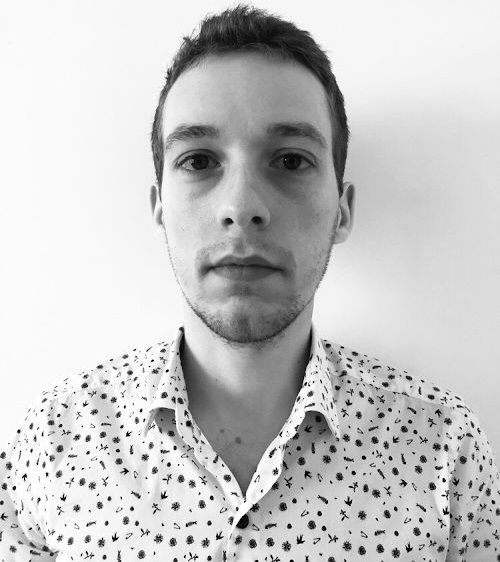
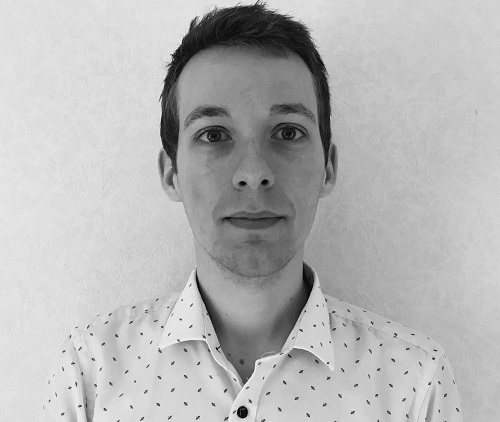
Mise à jour CV et photo

diff --git a/css/agency.min.css b/css/agency.min.css
@@ -1,1 +1,1 @@
-body{overflow-x:hidden;font-family:'Roboto Slab','Helvetica Neue',Helvetica,Arial,sans-serif}p{line-height:1.75}a{color:#6F429A}a:hover{color:#6F429A}.text-primary{color:#6F429A!important}h1,h2,h3,h4,h5,h6{font-weight:700;font-family:'Montserrat','Helvetica Neue',Helvetica,Arial,sans-serif}section{padding:100px 0}section h2.section-heading{font-size:40px;margin-top:0;margin-bottom:15px}section h3.section-subheading{font-size:16px;font-weight:400;font-style:italic;margin-bottom:75px;text-transform:none;font-family:'Droid Serif','Helvetica Neue',Helvetica,Arial,sans-serif}@media (min-width:768px){section{padding:150px 0}}.btn{font-family:'Montserrat','Helvetica Neue',Helvetica,Arial,sans-serif;font-weight:700}.btn-xl{font-size:18px;padding:20px 40px}.btn-primary{background-color:white;border-color:#6F429A;color:#6F429A}.btn-primary:active,.btn-primary:focus,.btn-primary:hover{background-color:white!important;border-color:#6F429A!important;color:#6F429A}.btn-primary:active,.btn-primary:focus{box-shadow:0 0 0 .2rem rgba(255,255,255,.5)!important}::-moz-selection{background:#6F429A;text-shadow:none}::selection{background:#6F429A;text-shadow:none}img::selection{background:transparent}img::-moz-selection{background:transparent}#mainNav{background-color:white;box-shadow:0 1px 5px rgba(0,0,0,.1)}#mainNav .navbar-toggler{font-size:12px;right:0;padding:13px;text-transform:uppercase;color:#6F429A;border:1px solid #6F429A;outline:none;background-color:white;font-family:'Montserrat','Helvetica Neue',Helvetica,Arial,sans-serif}#mainNav .navbar-brand{color:#6F429A;font-family:'Kaushan Script','Helvetica Neue',Helvetica,Arial,cursive}#mainNav .navbar-brand.active,#mainNav .navbar-brand:active,#mainNav .navbar-brand:focus,#mainNav .navbar-brand:hover{color:#6F429A}#mainNav .navbar-nav .nav-item .nav-link{font-size:90%;font-weight:400;padding:.75em 0;letter-spacing:1px;color:#212529;font-family:'Montserrat','Helvetica Neue',Helvetica,Arial,sans-serif}#mainNav .navbar-nav .nav-item .nav-link.active{color:#6F429A;font-weight:700}#mainNav .navbar-nav .nav-item .nav-link:hover{color:#6F429A;opacity:.9}@media (min-width:992px){#mainNav{padding-top:25px;padding-bottom:25px;-webkit-transition:padding-top 0.3s,padding-bottom 0.3s;-moz-transition:padding-top 0.3s,padding-bottom 0.3s;transition:padding-top 0.3s,padding-bottom 0.3s;border:none;background-color:white}#mainNav .navbar-brand{font-size:1.75em;-webkit-transition:all 0.3s;-moz-transition:all 0.3s;transition:all 0.3s}#mainNav .navbar-nav .nav-item .nav-link{padding:1.1em 1em!important}#mainNav.navbar-shrink{padding-top:0;padding-bottom:0;background-color:white}#mainNav.navbar-shrink .navbar-brand{font-size:1.25em;padding:12px 0}}header.masthead{text-align:center;color:white;background-image:linear-gradient(to bottom right,#6F429A,#7c56cc);background-repeat:no-repeat;background-attachment:scroll;background-position:center center;-webkit-background-size:cover;-moz-background-size:cover;-o-background-size:cover;background-size:cover}header.masthead .intro-text{padding-top:150px;padding-bottom:100px}header.masthead .intro-text .intro-lead-in{font-size:22px;font-style:italic;line-height:22px;margin-bottom:25px;font-family:'Droid Serif','Helvetica Neue',Helvetica,Arial,sans-serif}header.masthead .intro-text .intro-heading{font-size:50px;font-weight:700;line-height:50px;margin-bottom:25px;font-family:'Montserrat','Helvetica Neue',Helvetica,Arial,sans-serif}@media (min-width:768px){header.masthead .intro-text{padding-top:300px;padding-bottom:200px}header.masthead .intro-text .intro-lead-in{font-size:40px;font-style:italic;line-height:40px;margin-bottom:25px;font-family:'Droid Serif','Helvetica Neue',Helvetica,Arial,sans-serif}header.masthead .intro-text .intro-heading{font-size:75px;font-weight:700;line-height:75px;margin-bottom:50px;font-family:'Montserrat','Helvetica Neue',Helvetica,Arial,sans-serif}}.service-heading{margin:15px 0;text-transform:none}#portfolio .portfolio-item{right:0;margin:0 0 15px}#portfolio .portfolio-item .portfolio-link{position:relative;display:block;max-width:400px;margin:0 auto;cursor:pointer}#portfolio .portfolio-item .portfolio-link .portfolio-hover{position:absolute;width:100%;height:100%;-webkit-transition:all ease 0.5s;-moz-transition:all ease 0.5s;transition:all ease 0.5s;opacity:0;background:rgba(111,66,148,1)}#portfolio .portfolio-item .portfolio-link .portfolio-hover:hover{opacity:1}#portfolio .portfolio-item .portfolio-link .portfolio-hover .portfolio-hover-content{font-size:20px;position:absolute;top:50%;width:100%;height:20px;margin-top:-12px;text-align:center;color:white}#portfolio .portfolio-item .portfolio-link .portfolio-hover .portfolio-hover-content i{margin-top:-12px}#portfolio .portfolio-item .portfolio-link .portfolio-hover .portfolio-hover-content h3,#portfolio .portfolio-item .portfolio-link .portfolio-hover .portfolio-hover-content h4{margin:0}#portfolio .portfolio-item .portfolio-caption{max-width:400px;margin:0 auto;padding:25px;text-align:center;background-color:#fff}#portfolio .portfolio-item .portfolio-caption h4{margin:0;text-transform:none}#portfolio .portfolio-item .portfolio-caption p{font-size:16px;font-style:italic;margin:0;font-family:'Droid Serif','Helvetica Neue',Helvetica,Arial,sans-serif}#portfolio *{z-index:2}@media (min-width:767px){#portfolio .portfolio-item{margin:0 0 30px}}.portfolio-modal{padding-right:0px!important}.portfolio-modal .modal-dialog{margin:1rem;max-width:100vw}.portfolio-modal .modal-content{padding:100px 0;text-align:center}.portfolio-modal .modal-content h2{font-size:3em;margin-bottom:15px}.portfolio-modal .modal-content p{margin-bottom:30px}.portfolio-modal .modal-content p.item-intro{font-size:16px;font-style:italic;margin:20px 0 30px;font-family:'Droid Serif','Helvetica Neue',Helvetica,Arial,sans-serif}.portfolio-modal .modal-content ul.list-inline{margin-top:0;margin-bottom:30px}.portfolio-modal .modal-content img{margin-bottom:30px}.portfolio-modal .modal-content button{cursor:pointer}.portfolio-modal .close-modal{position:absolute;top:25px;right:25px;width:75px;height:75px;cursor:pointer;background-color:transparent}.portfolio-modal .close-modal:hover{opacity:.3}.portfolio-modal .close-modal .lr{z-index:1051;width:1px;height:75px;margin-left:35px;-webkit-transform:rotate(45deg);-ms-transform:rotate(45deg);transform:rotate(45deg);background-color:#212529}.portfolio-modal .close-modal .lr .rl{z-index:1052;width:1px;height:75px;-webkit-transform:rotate(90deg);-ms-transform:rotate(90deg);transform:rotate(90deg);background-color:#212529}.timeline{position:relative;padding:0;list-style:none}.timeline:before{position:absolute;top:0;bottom:0;left:40px;width:2px;margin-left:-1.5px;content:'';background-color:#e9ecef}.timeline>li{position:relative;min-height:50px;margin-bottom:50px}.timeline>li:after,.timeline>li:before{display:table;content:' '}.timeline>li:after{clear:both}.timeline>li .timeline-panel{position:relative;float:right;width:100%;padding:0 20px 0 100px;text-align:left}.timeline>li .timeline-panel:before{right:auto;left:-15px;border-right-width:15px;border-left-width:0}.timeline>li .timeline-panel:after{right:auto;left:-14px;border-right-width:14px;border-left-width:0}.timeline>li .timeline-image{position:absolute;z-index:100;left:0;width:80px;height:80px;margin-left:0;text-align:center;color:white;border:7px solid #e9ecef;border-radius:100%;background-color:#6F429A}.timeline>li .timeline-image h4{font-size:10px;line-height:14px;margin-top:12px}.timeline>li.timeline-inverted>.timeline-panel{float:right;padding:0 20px 0 100px;text-align:left}.timeline>li.timeline-inverted>.timeline-panel:before{right:auto;left:-15px;border-right-width:15px;border-left-width:0}.timeline>li.timeline-inverted>.timeline-panel:after{right:auto;left:-14px;border-right-width:14px;border-left-width:0}.timeline>li:last-child{margin-bottom:0}.timeline .timeline-heading h4{margin-top:0;color:inherit}.timeline .timeline-heading h4.subheading{text-transform:none}.timeline .timeline-body>ul,.timeline .timeline-body>p{margin-bottom:0}@media (min-width:768px){.timeline:before{left:50%}.timeline>li{min-height:100px;margin-bottom:100px}.timeline>li .timeline-panel{float:left;width:41%;padding:0 20px 20px 30px;text-align:right}.timeline>li .timeline-image{left:50%;width:100px;height:100px;margin-left:-50px}.timeline>li .timeline-image h4{font-size:13px;line-height:18px;margin-top:16px}.timeline>li.timeline-inverted>.timeline-panel{float:right;padding:0 30px 20px 20px;text-align:left}}@media (min-width:992px){.timeline>li{min-height:150px}.timeline>li .timeline-panel{padding:0 20px 20px}.timeline>li .timeline-image{width:150px;height:150px;margin-left:-75px}.timeline>li .timeline-image h4{font-size:18px;line-height:26px;margin-top:30px}.timeline>li.timeline-inverted>.timeline-panel{padding:0 20px 20px}}@media (min-width:1200px){.timeline>li{min-height:170px}.timeline>li .timeline-panel{padding:0 20px 20px 100px}.timeline>li .timeline-image{width:170px;height:170px;margin-left:-85px}.timeline>li .timeline-image h4{margin-top:40px}.timeline>li.timeline-inverted>.timeline-panel{padding:0 100px 20px 20px}}.team-member{margin-bottom:50px;text-align:center}.team-member img{width:225px;height:225px;border:7px solid #6F429A}.team-member h4{margin-top:25px;margin-bottom:0;text-transform:none}.team-member p{margin-top:0}section#contact .form-group{margin-bottom:25px}section#contact .form-group input,section#contact .form-group textarea{padding:20px}section#contact .form-group input.form-control{height:auto}section#contact .form-group textarea.form-control{height:248px}section#contact .form-control:focus{border-color:#6F429A;box-shadow:none}section#contact ::-webkit-input-placeholder{font-weight:700;color:#ced4da;font-family:'Montserrat','Helvetica Neue',Helvetica,Arial,sans-serif}section#contact :-moz-placeholder{font-weight:700;color:#ced4da;font-family:'Montserrat','Helvetica Neue',Helvetica,Arial,sans-serif}section#contact ::-moz-placeholder{font-weight:700;color:#ced4da;font-family:'Montserrat','Helvetica Neue',Helvetica,Arial,sans-serif}section#contact :-ms-input-placeholder{font-weight:700;color:#ced4da;font-family:'Montserrat','Helvetica Neue',Helvetica,Arial,sans-serif}footer{padding:25px 0;text-align:center}footer span.copyright{font-size:90%;line-height:40px;text-transform:none;font-family:'Montserrat','Helvetica Neue',Helvetica,Arial,sans-serif}footer ul.quicklinks{font-size:90%;line-height:40px;margin-bottom:0;text-transform:none;font-family:'Montserrat','Helvetica Neue',Helvetica,Arial,sans-serif}ul.social-buttons{margin-bottom:0}ul.social-buttons li a{font-size:20px;line-height:40px;display:block;width:40px;height:40px;-webkit-transition:all 0.3s;-moz-transition:all 0.3s;transition:all 0.3s;color:white;border-radius:100%;outline:none;background-color:#6f429a}ul.social-buttons li a:active,ul.social-buttons li a:focus,ul.social-buttons li a:hover{background-color:#6F429A} .bordered{border:1px solid #212529;border-bottom:0.5px solid;}.pricing-button a.btn{letter-spacing:0.1rem;padding:12px 55px}.pricing-button a.btn:hover{opacity:0.9}.single-pricing-table{padding:20px;box-shadow:0 2px 10px 2px rgba(221,221,221,.73)}.single-pricing-table .pricing-table-heading h2{color:#212529;font-size:22px;font-weight:700;letter-spacing:0.1rem;margin-top:30px;position:relative;width:100%}.single-pricing-table .pricing-table-heading h2:after{border:1px dashed #eee;content:"";left:0;position:absolute;top:13px;width:100%;z-index:-11111}.single-pricing-table .price span{color:#6F429A;font-size:36px;font-weight:700}.single-pricing-table .pricing-item{padding:20px 0}.single-pricing-table .pricing-item ul{padding-left:0}.single-pricing-table .pricing-item ul li{list-style:none}.single-pricing-table .pricing-item ul li p strong{color:#6F429A}.single-pricing-table .pricing-button{padding:20px 0}.single-pricing-table .pricing-button a.btn-pricing{background-color:#6F429A}.unbordered{border:none;}.margbottom30{margin-bottom:30px;}.chevron-cta{color:white;font-size:72px;}
+body{overflow-x:hidden;font-family:'Roboto Slab','Helvetica Neue',Helvetica,Arial,sans-serif}p{line-height:1.75}a{color:#6F429A}a:hover{color:#6F429A}.text-primary{color:#6F429A!important}h1,h2,h3,h4,h5,h6{font-weight:700;font-family:'Montserrat','Helvetica Neue',Helvetica,Arial,sans-serif}section{padding:100px 0}section h2.section-heading{font-size:40px;margin-top:0;margin-bottom:15px}section h3.section-subheading{font-size:16px;font-weight:400;font-style:italic;margin-bottom:75px;text-transform:none;font-family:'Droid Serif','Helvetica Neue',Helvetica,Arial,sans-serif}@media (min-width:768px){section{padding:150px 0}}.btn{font-family:'Montserrat','Helvetica Neue',Helvetica,Arial,sans-serif;font-weight:700}.btn-xl{font-size:18px;padding:20px 40px}.btn-primary{background-color:white;border-color:#6F429A;color:#6F429A}.btn-primary:active,.btn-primary:focus,.btn-primary:hover{background-color:white!important;border-color:#6F429A!important;color:#6F429A}.btn-primary:active,.btn-primary:focus{box-shadow:0 0 0 .2rem rgba(255,255,255,.5)!important}::-moz-selection{background:#6F429A;text-shadow:none}::selection{background:#6F429A;text-shadow:none}img::selection{background:transparent}img::-moz-selection{background:transparent}#mainNav{background-color:white;box-shadow:0 1px 5px rgba(0,0,0,.1)}#mainNav .navbar-toggler{font-size:12px;right:0;padding:13px;text-transform:uppercase;color:#6F429A;border:1px solid #6F429A;outline:none;background-color:white;font-family:'Montserrat','Helvetica Neue',Helvetica,Arial,sans-serif}#mainNav .navbar-brand{color:#6F429A;font-family:'Kaushan Script','Helvetica Neue',Helvetica,Arial,cursive}#mainNav .navbar-brand.active,#mainNav .navbar-brand:active,#mainNav .navbar-brand:focus,#mainNav .navbar-brand:hover{color:#6F429A}#mainNav .navbar-nav .nav-item .nav-link{font-size:90%;font-weight:400;padding:.75em 0;letter-spacing:1px;color:#212529;font-family:'Montserrat','Helvetica Neue',Helvetica,Arial,sans-serif}#mainNav .navbar-nav .nav-item .nav-link.active{color:#6F429A;font-weight:700}#mainNav .navbar-nav .nav-item .nav-link:hover{color:#6F429A;opacity:.9}@media (min-width:992px){#mainNav{padding-top:25px;padding-bottom:25px;-webkit-transition:padding-top 0.3s,padding-bottom 0.3s;-moz-transition:padding-top 0.3s,padding-bottom 0.3s;transition:padding-top 0.3s,padding-bottom 0.3s;border:none;background-color:white}#mainNav .navbar-brand{font-size:1.75em;-webkit-transition:all 0.3s;-moz-transition:all 0.3s;transition:all 0.3s}#mainNav .navbar-nav .nav-item .nav-link{padding:1.1em 1em!important}#mainNav.navbar-shrink{padding-top:0;padding-bottom:0;background-color:white}#mainNav.navbar-shrink .navbar-brand{font-size:1.25em;padding:12px 0}}header.masthead{text-align:center;color:white;background-image:linear-gradient(to bottom right,#6F429A,#7c56cc);background-repeat:no-repeat;background-attachment:scroll;background-position:center center;-webkit-background-size:cover;-moz-background-size:cover;-o-background-size:cover;background-size:cover}header.masthead .intro-text{padding-top:150px;padding-bottom:100px}header.masthead .intro-text .intro-lead-in{font-size:22px;font-style:italic;line-height:22px;margin-bottom:25px;font-family:'Droid Serif','Helvetica Neue',Helvetica,Arial,sans-serif}header.masthead .intro-text .intro-heading{font-size:50px;font-weight:700;line-height:50px;margin-bottom:25px;font-family:'Montserrat','Helvetica Neue',Helvetica,Arial,sans-serif}@media (min-width:768px){header.masthead .intro-text{padding-top:300px;padding-bottom:200px}header.masthead .intro-text .intro-lead-in{font-size:40px;font-style:italic;line-height:40px;margin-bottom:25px;font-family:'Droid Serif','Helvetica Neue',Helvetica,Arial,sans-serif}header.masthead .intro-text .intro-heading{font-size:75px;font-weight:700;line-height:75px;margin-bottom:50px;font-family:'Montserrat','Helvetica Neue',Helvetica,Arial,sans-serif}}.service-heading{margin:15px 0;text-transform:none}#portfolio .portfolio-item{right:0;margin:0 0 15px}#portfolio .portfolio-item .portfolio-link{position:relative;display:block;max-width:400px;margin:0 auto;cursor:pointer}#portfolio .portfolio-item .portfolio-link .portfolio-hover{position:absolute;width:100%;height:100%;-webkit-transition:all ease 0.5s;-moz-transition:all ease 0.5s;transition:all ease 0.5s;opacity:0;background:rgba(111,66,148,1)}#portfolio .portfolio-item .portfolio-link .portfolio-hover:hover{opacity:1}#portfolio .portfolio-item .portfolio-link .portfolio-hover .portfolio-hover-content{font-size:20px;position:absolute;top:50%;width:100%;height:20px;margin-top:-12px;text-align:center;color:white}#portfolio .portfolio-item .portfolio-link .portfolio-hover .portfolio-hover-content i{margin-top:-12px}#portfolio .portfolio-item .portfolio-link .portfolio-hover .portfolio-hover-content h3,#portfolio .portfolio-item .portfolio-link .portfolio-hover .portfolio-hover-content h4{margin:0}#portfolio .portfolio-item .portfolio-caption{max-width:400px;margin:0 auto;padding:25px;text-align:center;background-color:#fff}#portfolio .portfolio-item .portfolio-caption h4{margin:0;text-transform:none}#portfolio .portfolio-item .portfolio-caption p{font-size:16px;font-style:italic;margin:0;font-family:'Droid Serif','Helvetica Neue',Helvetica,Arial,sans-serif}#portfolio *{z-index:2}@media (min-width:767px){#portfolio .portfolio-item{margin:0 0 30px}}.portfolio-modal{padding-right:0px!important}.portfolio-modal .modal-dialog{margin:1rem;max-width:100vw}.portfolio-modal .modal-content{padding:100px 0;text-align:center}.portfolio-modal .modal-content h2{font-size:3em;margin-bottom:15px}.portfolio-modal .modal-content p{margin-bottom:30px}.portfolio-modal .modal-content p.item-intro{font-size:16px;font-style:italic;margin:20px 0 30px;font-family:'Droid Serif','Helvetica Neue',Helvetica,Arial,sans-serif}.portfolio-modal .modal-content ul.list-inline{margin-top:0;margin-bottom:30px}.portfolio-modal .modal-content img{margin-bottom:30px}.portfolio-modal .modal-content button{cursor:pointer}.portfolio-modal .close-modal{position:absolute;top:25px;right:25px;width:75px;height:75px;cursor:pointer;background-color:transparent}.portfolio-modal .close-modal:hover{opacity:.3}.portfolio-modal .close-modal .lr{z-index:1051;width:1px;height:75px;margin-left:35px;-webkit-transform:rotate(45deg);-ms-transform:rotate(45deg);transform:rotate(45deg);background-color:#212529}.portfolio-modal .close-modal .lr .rl{z-index:1052;width:1px;height:75px;-webkit-transform:rotate(90deg);-ms-transform:rotate(90deg);transform:rotate(90deg);background-color:#212529}.timeline{position:relative;padding:0;list-style:none}.timeline:before{position:absolute;top:0;bottom:0;left:40px;width:2px;margin-left:-1.5px;content:'';background-color:#e9ecef}.timeline>li{position:relative;min-height:50px;margin-bottom:50px}.timeline>li:after,.timeline>li:before{display:table;content:' '}.timeline>li:after{clear:both}.timeline>li .timeline-panel{position:relative;float:right;width:100%;padding:0 20px 0 100px;text-align:left}.timeline>li .timeline-panel:before{right:auto;left:-15px;border-right-width:15px;border-left-width:0}.timeline>li .timeline-panel:after{right:auto;left:-14px;border-right-width:14px;border-left-width:0}.timeline>li .timeline-image{position:absolute;z-index:100;left:0;width:80px;height:80px;margin-left:0;text-align:center;color:white;border:7px solid #e9ecef;border-radius:100%;background-color:#6F429A}.timeline>li .timeline-image h4{font-size:10px;line-height:14px;margin-top:12px}.timeline>li.timeline-inverted>.timeline-panel{float:right;padding:0 20px 0 100px;text-align:left}.timeline>li.timeline-inverted>.timeline-panel:before{right:auto;left:-15px;border-right-width:15px;border-left-width:0}.timeline>li.timeline-inverted>.timeline-panel:after{right:auto;left:-14px;border-right-width:14px;border-left-width:0}.timeline>li:last-child{margin-bottom:0}.timeline .timeline-heading h4{margin-top:0;color:inherit}.timeline .timeline-heading h4.subheading{text-transform:none}.timeline .timeline-body>ul,.timeline .timeline-body>p{margin-bottom:0}@media (min-width:768px){.timeline:before{left:50%}.timeline>li{min-height:100px;margin-bottom:100px}.timeline>li .timeline-panel{float:left;width:41%;padding:0 20px 20px 30px;text-align:right}.timeline>li .timeline-image{left:50%;width:100px;height:100px;margin-left:-50px}.timeline>li .timeline-image h4{font-size:13px;line-height:18px;margin-top:16px}.timeline>li.timeline-inverted>.timeline-panel{float:right;padding:0 30px 20px 20px;text-align:left}}@media (min-width:992px){.timeline>li{min-height:150px}.timeline>li .timeline-panel{padding:0 20px 20px}.timeline>li .timeline-image{width:150px;height:150px;margin-left:-75px}.timeline>li .timeline-image h4{font-size:18px;line-height:26px;margin-top:30px}.timeline>li.timeline-inverted>.timeline-panel{padding:0 20px 20px}}@media (min-width:1200px){.timeline>li{min-height:170px}.timeline>li .timeline-panel{padding:0 20px 20px 100px}.timeline>li .timeline-image{width:170px;height:170px;margin-left:-85px}.timeline>li .timeline-image h4{margin-top:40px}.timeline>li.timeline-inverted>.timeline-panel{padding:0 100px 20px 20px}}.team-member{margin-bottom:50px;text-align:center}.team-member img{width:225px;height:200px;border:7px solid #6F429A}.team-member h4{margin-top:25px;margin-bottom:0;text-transform:none}.team-member p{margin-top:0}section#contact .form-group{margin-bottom:25px}section#contact .form-group input,section#contact .form-group textarea{padding:20px}section#contact .form-group input.form-control{height:auto}section#contact .form-group textarea.form-control{height:248px}section#contact .form-control:focus{border-color:#6F429A;box-shadow:none}section#contact ::-webkit-input-placeholder{font-weight:700;color:#ced4da;font-family:'Montserrat','Helvetica Neue',Helvetica,Arial,sans-serif}section#contact :-moz-placeholder{font-weight:700;color:#ced4da;font-family:'Montserrat','Helvetica Neue',Helvetica,Arial,sans-serif}section#contact ::-moz-placeholder{font-weight:700;color:#ced4da;font-family:'Montserrat','Helvetica Neue',Helvetica,Arial,sans-serif}section#contact :-ms-input-placeholder{font-weight:700;color:#ced4da;font-family:'Montserrat','Helvetica Neue',Helvetica,Arial,sans-serif}footer{padding:25px 0;text-align:center}footer span.copyright{font-size:90%;line-height:40px;text-transform:none;font-family:'Montserrat','Helvetica Neue',Helvetica,Arial,sans-serif}footer ul.quicklinks{font-size:90%;line-height:40px;margin-bottom:0;text-transform:none;font-family:'Montserrat','Helvetica Neue',Helvetica,Arial,sans-serif}ul.social-buttons{margin-bottom:0}ul.social-buttons li a{font-size:20px;line-height:40px;display:block;width:40px;height:40px;-webkit-transition:all 0.3s;-moz-transition:all 0.3s;transition:all 0.3s;color:white;border-radius:100%;outline:none;background-color:#6f429a}ul.social-buttons li a:active,ul.social-buttons li a:focus,ul.social-buttons li a:hover{background-color:#6F429A} .bordered{border:1px solid #212529;border-bottom:0.5px solid;}.pricing-button a.btn{letter-spacing:0.1rem;padding:12px 55px}.pricing-button a.btn:hover{opacity:0.9}.single-pricing-table{padding:20px;box-shadow:0 2px 10px 2px rgba(221,221,221,.73)}.single-pricing-table .pricing-table-heading h2{color:#212529;font-size:22px;font-weight:700;letter-spacing:0.1rem;margin-top:30px;position:relative;width:100%}.single-pricing-table .pricing-table-heading h2:after{border:1px dashed #eee;content:"";left:0;position:absolute;top:13px;width:100%;z-index:-11111}.single-pricing-table .price span{color:#6F429A;font-size:36px;font-weight:700}.single-pricing-table .pricing-item{padding:20px 0}.single-pricing-table .pricing-item ul{padding-left:0}.single-pricing-table .pricing-item ul li{list-style:none}.single-pricing-table .pricing-item ul li p strong{color:#6F429A}.single-pricing-table .pricing-button{padding:20px 0}.single-pricing-table .pricing-button a.btn-pricing{background-color:#6F429A}.unbordered{border:none;}.margbottom30{margin-bottom:30px;}.chevron-cta{color:white;font-size:72px;}
